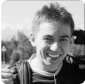
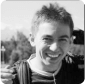
MAR-429 Updated images for testimonials

diff --git a/client/data/cooperationModels.js b/client/data/cooperationModels.js
@@ -269,7 +269,7 @@ export const testimonials = [
     author: {
       name: 'Duc Nguyen',
       position: 'Former CEO, Topica Group',
-      image: 'daniel',
+      image: 'duc',
     },
   },
   {
@@ -293,7 +293,7 @@ export const testimonials = [
     author: {
       name: 'Moktar Alqaderi',
       position: 'CEO, Progressay',
-      image: 'daniel',
+      image: 'moktar',
     },
   },
 ]

diff --git a/client/components/CooperationModels/shared/TestimonialBlock.vue b/client/components/CooperationModels/shared/TestimonialBlock.vue
@@ -92,8 +92,9 @@ export default {
       img {
         display: block;
         font-size: 12px;
-        width: 100%;
-        height: 100%;
+        width: calc(100% + 1px);
+        height: calc(100% + 1px);
+        margin-top: -1px;
         object-fit: cover;
       }
     }
